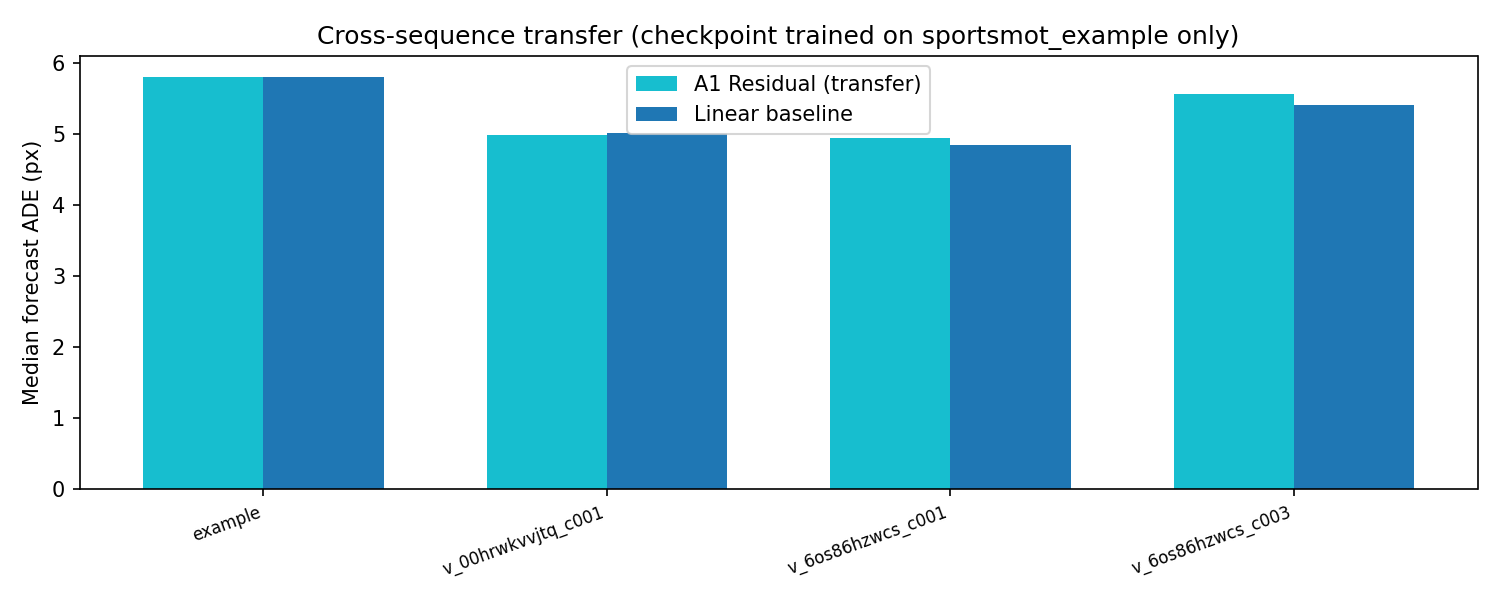
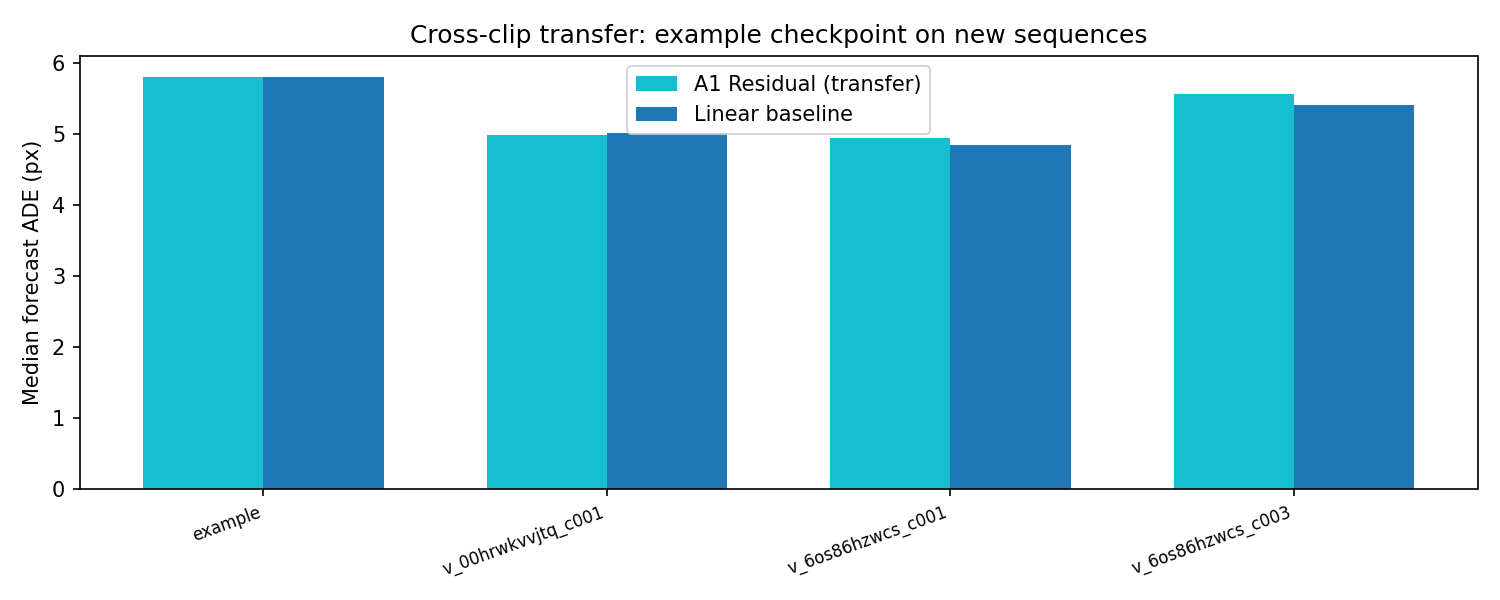
Project testing

Changed region(s): [[0.2147, 0.03, 0.828, 0.09]]

diff --git a/portfolio_media/METRICS_PAPER_RESULTS.md b/portfolio_media/METRICS_PAPER_RESULTS.md
@@ -1,0 +1,71 @@
+# Paper Results (auto-generated)
+
+## Section 1 - Detection metrics (pre-LSTM)
+
+| Metric | SAM3.1 baseline | Augmented |
+|--------|-----------------|-----------|
+| Mean players/frame | 10.755555555555556 | 10.422222222222222 |
+| ID switches | 0 | 0 |
+| Mean track streak | 32.266666666666666 | 27.933333333333334 |
+
+## Section 2 - Forecast metrics (LSTM)
+
+| Model | All-seed median ADE | Clean-seed median ADE | Beats linear |
+|-------|---------------------|------------------------|--------------|
+| Linear | 5.81 | 5.94 | — |
+| A0 Plain | 10.68 | 10.43 | N |
+| A1 Rule-Conditioned | 7.51 | 7.22 | N |
+| A1 Residual (headline) | 5.81 | 5.95 | N |
+| A3 Graph | 8.67 | 8.47 | N |
+
+## Section 3 - Per-seed breakdown
+
+| Seed | A0 | A1 | A1 Residual | Linear | Residual vs linear |
+|------|-----|-----|-------------|--------|---------------------|
+| offset_0s | 40.15 | 44.98 | 7.25 | 7.09 | linear |
+| offset_10s | 7.86 | 7.46 | 6.15 | 6.16 | A1_residual |
+| offset_12s | 10.69 | 6.34 | 4.68 | 4.69 | A1_residual |
+| offset_14s | 10.43 | 6.97 | 5.95 | 5.94 | tie |
+| offset_15s | 37.30 | 41.58 | 5.15 | 5.19 | A1_residual |
+| offset_16s | 11.19 | 9.98 | 7.38 | 7.38 | tie |
+| offset_18s | 10.67 | 7.55 | 6.12 | 5.95 | linear |
+| offset_2s | 7.70 | 5.65 | 3.25 | 3.22 | linear |
+| offset_4s | 9.57 | 6.75 | 4.50 | 4.55 | A1_residual |
+| offset_5s | 53.68 | 50.64 | 4.68 | 4.57 | linear |
+| offset_6s | 11.56 | 7.22 | 5.66 | 5.67 | tie |
+| offset_8s | 9.55 | 8.87 | 6.66 | 6.78 | A1_residual |
+
+## Section 4 - Key findings
+
+- A1 beats A0 on 10/12 seeds (held-out-seed training eval).
+- **A1 Residual** median forecast ADE: 5.81 px (all seeds) / 5.95 px (clean); linear: 5.81 / 5.94 px.
+- Residual beats linear on 5/12 seeds individually.
+- Three failure seeds (`offset_0s`, `offset_5s`, `offset_15s`): high ADE on all models — SAM3.1 tracking failure, not LSTM-specific.
+- Teacher-forced A1 median: 4.97 px; rollout gap reflects exposure bias during training.
+
+## Section 5 - Multi-clip eval (per-clip trained residual LSTM)
+
+Each clip uses its own `lstm_rule_features_residual/checkpoint.pt` (`held_out_seed`, val `offset_0s`, 80 epochs, scheduled sampling).
+
+| Dataset | Median residual ADE | Median linear ADE | Residual beats linear | Seeds |
+|---------|---------------------|-------------------|------------------------|-------|
+| sportsmot_example | 5.81 | 5.81 | tie | 12 |
+| sportsmot_v_00hrwkvvjtq_c001 | 5.16 | 5.01 | N | 23 |
+| sportsmot_v_6os86hzwcs_c001 | 4.82 | 4.84 | Y | 16 |
+| sportsmot_v_6os86hzwcs_c003 | 5.48 | 5.41 | N | 8 |
+
+## Section 6 - Transfer baseline (example checkpoint, no retrain)
+
+| Dataset | Transfer residual | Transfer linear | Per-clip residual | Delta residual (per-clip - transfer) |
+|---------|-------------------|-----------------|-------------------|--------------------------------------|
+| sportsmot_example | 5.81 | 5.81 | 5.81 | +0.00 |
+| sportsmot_v_00hrwkvvjtq_c001 | 4.99 | 5.01 | 5.16 | +0.17 |
+| sportsmot_v_6os86hzwcs_c001 | 4.94 | 4.84 | 4.82 | -0.12 |
+| sportsmot_v_6os86hzwcs_c003 | 5.56 | 5.41 | 5.48 | -0.08 |
+
+## Section 7 - Honest limitations
+
+- Per-clip training does not pool tensors across sequences; holdout clip is trained/evaluated only within itself.
+- A0/A1 plain variants were not retrained on new clips — only A1 residual per clip.
+- Game-rules post-refine (A2) hurts rather than helps — see ablation attribution.
+- SAM augmented tracks on future frames are a detection ceiling, not a fair forecast baseline.

diff --git a/portfolio_media/README.md b/portfolio_media/README.md
@@ -1,0 +1,58 @@
+# Portfolio media pack
+
+Curated figures for a personal website / project page. Regenerated 2026-08-08.
+
+**Folder:** `portfolio_media/` (repo root)
+
+## Recommended page layout
+
+### Hero / above the fold
+| File | Why |
+|------|-----|
+| `01_summary_sam_vs_augmented.png` | Shows tracking on real basketball frames (SAM vs cleaned tracks) |
+| `10_forecast_qualitative_clean.png` | Predicted vs GT vs linear overlays — most “wow” visual |
+
+### Headline metrics (callout chips)
+Pull from `METRICS_PAPER_RESULTS.md`:
+- **5.81 px** median forecast ADE (residual = linear)
+- **10/12** seeds: rule-conditioned LSTM beats plain LSTM
+- **5/12** seeds: residual beats linear
+- Detection ADE **~7.2 px**; players/frame **10.76 → 10.42**
+- **4** SportsMOT clips; **12** primary temporal windows
+
+### Results section (charts)
+| File | Caption idea |
+|------|----------------|
+| `05_lstm_forecast_comparison.png` | All-seed vs clean-seed forecast ADE |
+| `06_lstm_variant_ade_bar.png` | A0 / A1 / residual / A3 / linear |
+| `07_lstm_rule_ablation_bar.png` | Model ablation including A2 |
+| `08_a2_per_rule_delta_ade.png` | Why hard post-refine hurts (every rule +ADE) |
+| `03_augmentation_ablation_ade.png` | Track-cleaning ablations vs GT |
+| `12_multiseq_train_vs_transfer.png` | Per-clip train vs cross-clip transfer |
+
+### Optional / supporting
+| File | Use |
+|------|-----|
+| `02_baseline_tracking_metrics.png` | Tracking quality (players/frame, streak) |
+| `04_multi_seed_detection_ade.png` | Multi-seed detection robustness |
+| `09_forecast_qualitative.png` | Alternate forecast windows (`offset_2s`) |
+| `11_multiseq_perclip_bar.png` | Per-clip residual vs linear only |
+| `13_multiseq_transfer_bar.png` | Transfer-only residual vs linear |
+| `14_sample_frame.jpg` | Raw SportsMOT frame for mood / hero crop |
+
+## Priority if you only pick 5 images
+1. `01_summary_sam_vs_augmented.png`
+2. `10_forecast_qualitative_clean.png`
+3. `05_lstm_forecast_comparison.png`
+4. `08_a2_per_rule_delta_ade.png`
+5. `12_multiseq_train_vs_transfer.png`
+
+## Regenerate
+```powershell
+py scripts/plot_pre_lstm_gauge.py --dataset sportsmot_example
+py scripts/plot_lstm_vs_baselines.py --dataset sportsmot_example
+py scripts/plot_multiseq_transfer.py
+py scripts/plot_forecast_qualitative.py --dataset sportsmot_example --seed-id offset_2s
+py scripts/plot_forecast_qualitative.py --dataset sportsmot_example --seed-id offset_4s --window-starts 4,11,22 --output data/runs/sportsmot_example/figures/forecast_qualitative_clean.png
+py utils/visualize.py --frames data/runs/sportsmot_example/frames --baseline data/runs/sportsmot_example/baseline_tracks.json --augmented data/runs/sportsmot_example/ablations/sanitize_plus_velocity_cap/augmented_tracks.json --output data/runs/sportsmot_example/figures/summary_figure.png --summary --n-frames 4
+```

diff --git a/docs/PAPER_RESULTS.md b/docs/PAPER_RESULTS.md
@@ -1,7 +1,5 @@
 # Paper Results (auto-generated)
 
-> **AI-assisted documentation (Cursor Agent).** Generated from run artifacts via `scripts/generate_paper_results.py`. Attribution: [GENERATIVE_AI_USE.md](GENERATIVE_AI_USE.md).
-
 ## Section 1 - Detection metrics (pre-LSTM)
 
 | Metric | SAM3.1 baseline | Augmented |
